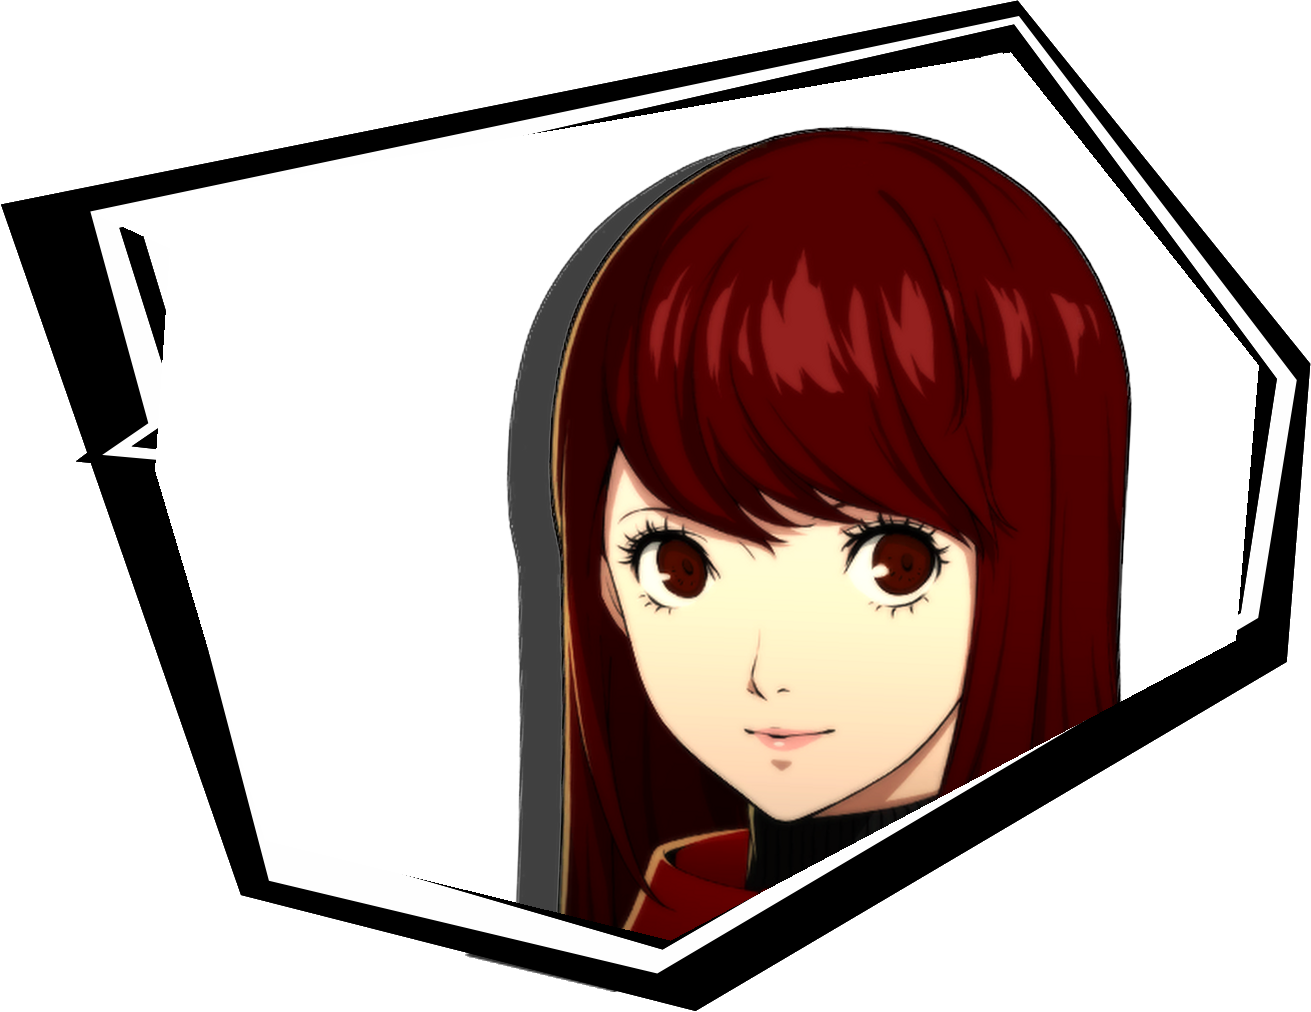
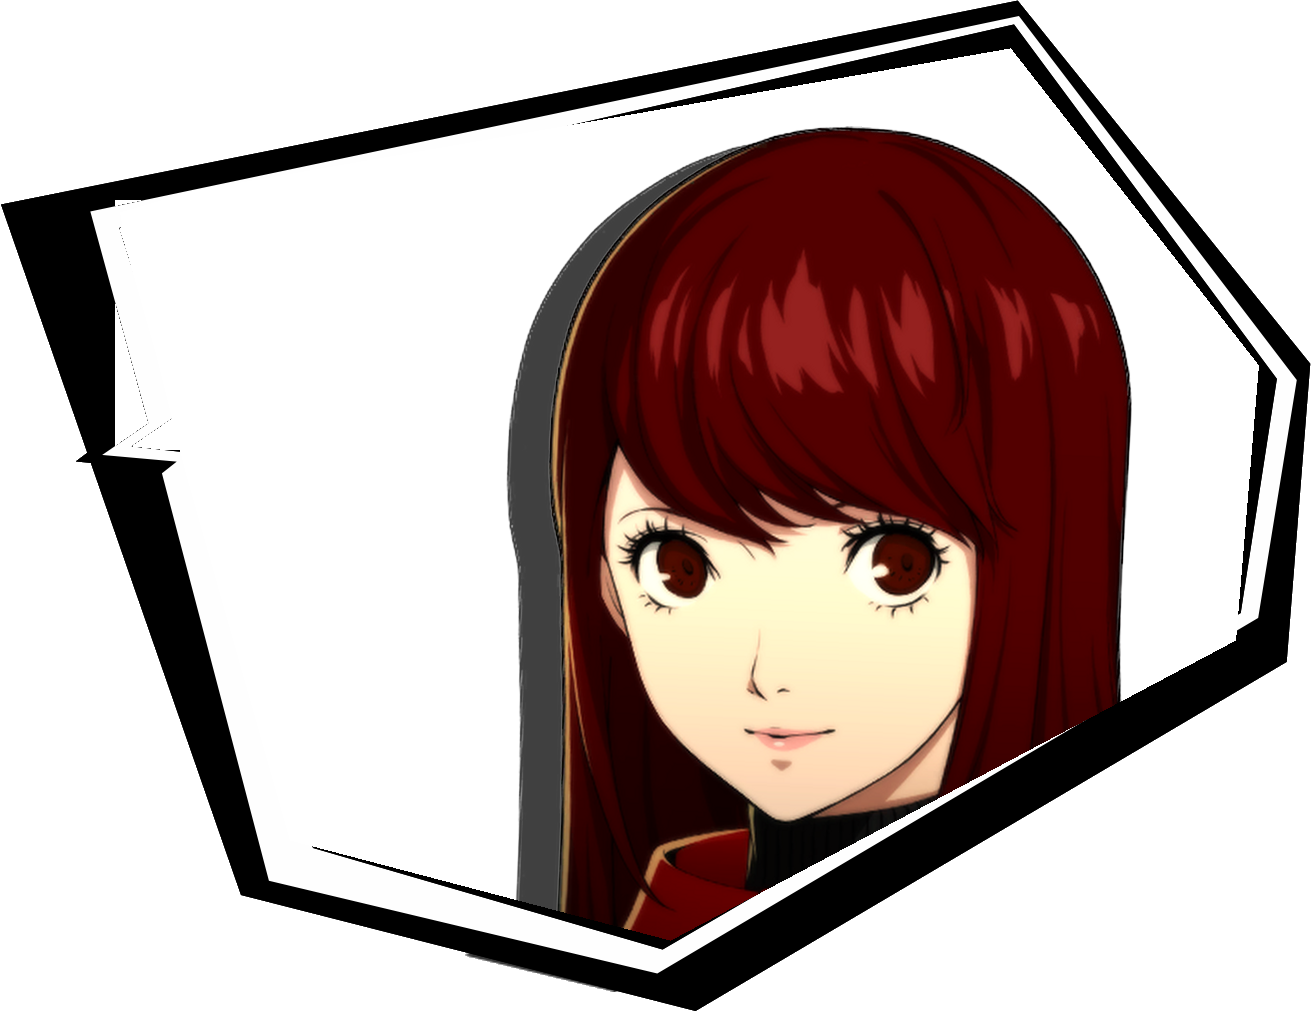
fix(personaMusic): clean Futaba headphone artifact on left border of character frame

diff --git a/scripts/make_character_frame.py b/scripts/make_character_frame.py
@@ -28,15 +28,16 @@ def generate_p5_character_frame(char_path: Path, template_frame_path: Path, out_
 
     # Precise inner polygon of the dialogue window (inside the inner border)
     poly_inner = [
-        (1010, 52),   # Top vertex
+        (1010, 48),   # Top vertex
         (1258, 365),  # Upper-right corner
         (1235, 640),  # Right corner
         (670, 940),   # Bottom vertex
-        (265, 840),   # Bottom-left corner
-        (155, 470),   # Lower-left corner
-        (170, 248),   # Notch base bottom
-        (91, 212),    # Notch tip (points left)
-        (172, 195),   # Notch base top
+        (290, 840),   # Bottom-left corner
+        (185, 470),   # Lower-left corner
+        (155, 350),   # Mid-left
+        (126, 248),   # Notch base bottom (inner edge of white stripe)
+        (120, 212),   # Notch tip inner
+        (195, 190),   # Notch base top
     ]
 
     # Inner mask
@@ -82,10 +83,20 @@ def generate_p5_character_frame(char_path: Path, template_frame_path: Path, out_
     # Composite: white bg + clipped character
     interior = Image.alpha_composite(bg, char_layer)
 
+    # Clean any headphone residue from template border area
+    t_clean = template.copy()
+    t_arr_clean = np.array(t_clean)
+    for y in range(200, 450):
+        mask = (t_arr_clean[y, :, 0] < 70) & (t_arr_clean[y, :, 1] < 70) & (t_arr_clean[y, :, 2] < 70) & (t_arr_clean[y, :, 3] > 100)
+        for x in range(115, 200):
+            if mask[x]:
+                t_arr_clean[y, x, :3] = 255
+    t_clean = Image.fromarray(t_arr_clean, "RGBA")
+
     # Extract clean frame border from template
     border_mask = np.where((t_alpha > 50) & (np.array(inner_mask) == 0), 255, 0).astype(np.uint8)
     border_layer = Image.new("RGBA", (W, H), (0, 0, 0, 0))
-    border_layer = Image.composite(template, border_layer, Image.fromarray(border_mask, "L"))
+    border_layer = Image.composite(t_clean, border_layer, Image.fromarray(border_mask, "L"))
 
     # Final composition: interior + frame border
     final_frame = Image.alpha_composite(interior, border_layer)
@@ -116,3 +127,4 @@ def main():
 
 if __name__ == "__main__":
     main()
+
